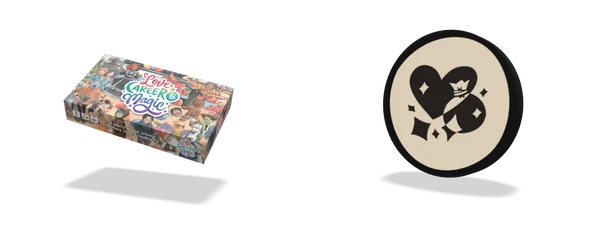
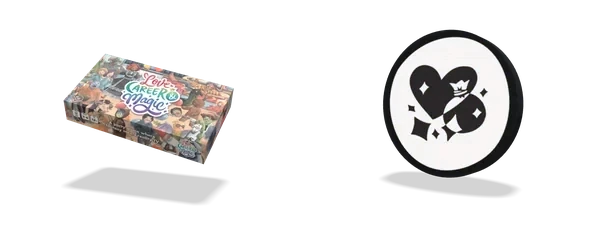
Point token: a white face, not tan
The token's faces were tinted warm, which read as tan; they're white
now, lit a little from within so they read white rather than grey.
Its thumbnail in What's in the box matches.

Claude-Session: https://claude.ai/code/session_01A7nLg5taiQxk8aHowA9Z88

Changed region(s): [[0.63, 0.1556, 0.87, 0.7778]]

diff --git a/src/components/utils/piecesViewer3d.ts b/src/components/utils/piecesViewer3d.ts
@@ -118,7 +118,9 @@ function makeToken(T: Three, mm: number[], tx: Record<string, THREE.Texture>) {
     uv.setXY(i, z > 0 ? x + 0.5 : 0.5 - x, p.getY(i) / (2 * r) + 0.5); // the back mirrored, so it reads right once it turns over
   }
   const bump = grain(T);
-  const art = (map: THREE.Texture) => new T.MeshStandardMaterial({ map, color: 0xfff0d6, roughness: 0.85, metalness: 0, bumpMap: bump, bumpScale: 0.35 });
+  // (its face white paint, lit a little from within so it reads white, not grey, in the soft light)
+  const art = (map: THREE.Texture) =>
+    new T.MeshStandardMaterial({ map, color: 0xffffff, emissive: 0xffffff, emissiveMap: map, emissiveIntensity: 0.22, roughness: 0.85, metalness: 0, bumpMap: bump, bumpScale: 0.35 });
   const m = new T.Mesh(geo, [new T.MeshStandardMaterial({ color: 0x141212, roughness: 0.85, bumpMap: bump, bumpScale: 0.35 }), art(tx.front), art(tx.back)]);
   m.castShadow = true;
   const grp = new T.Group();
